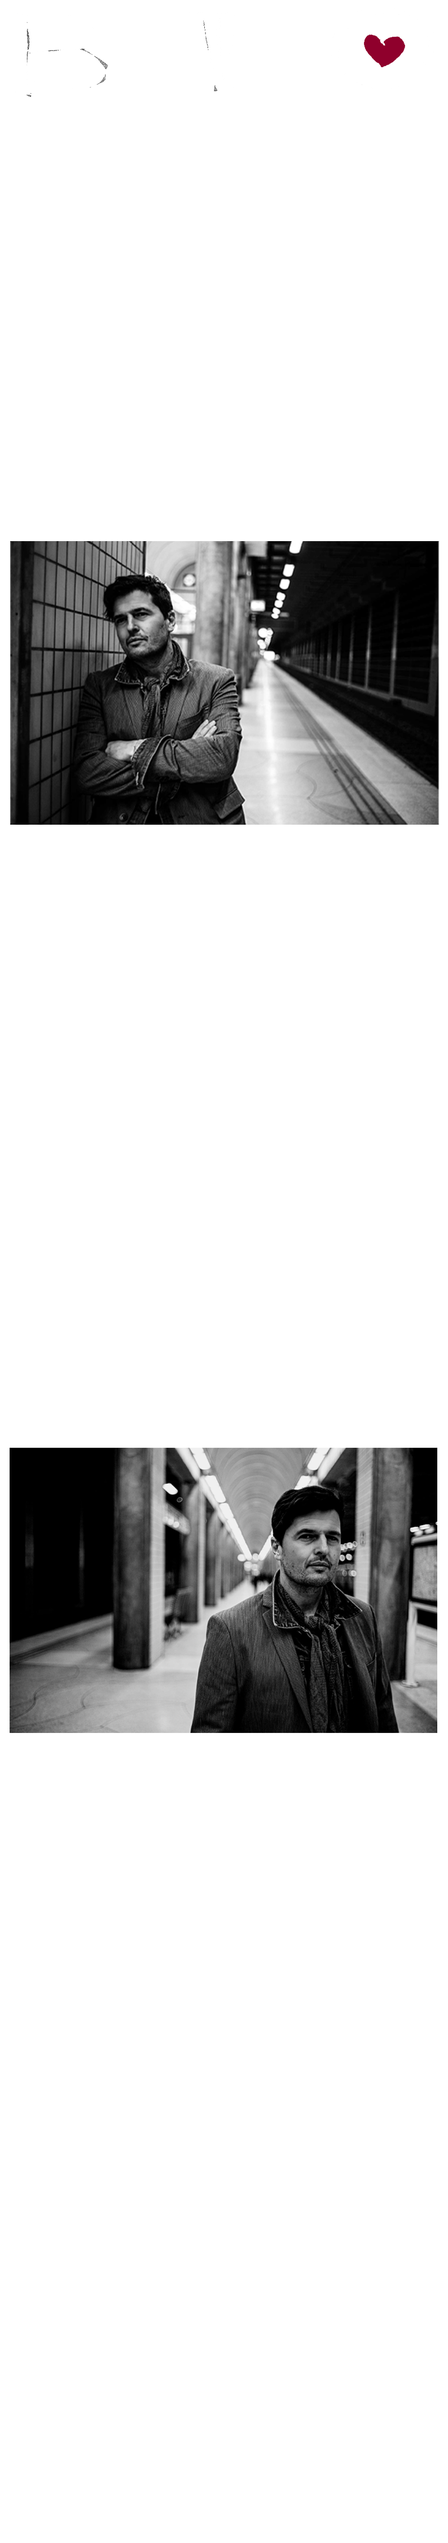
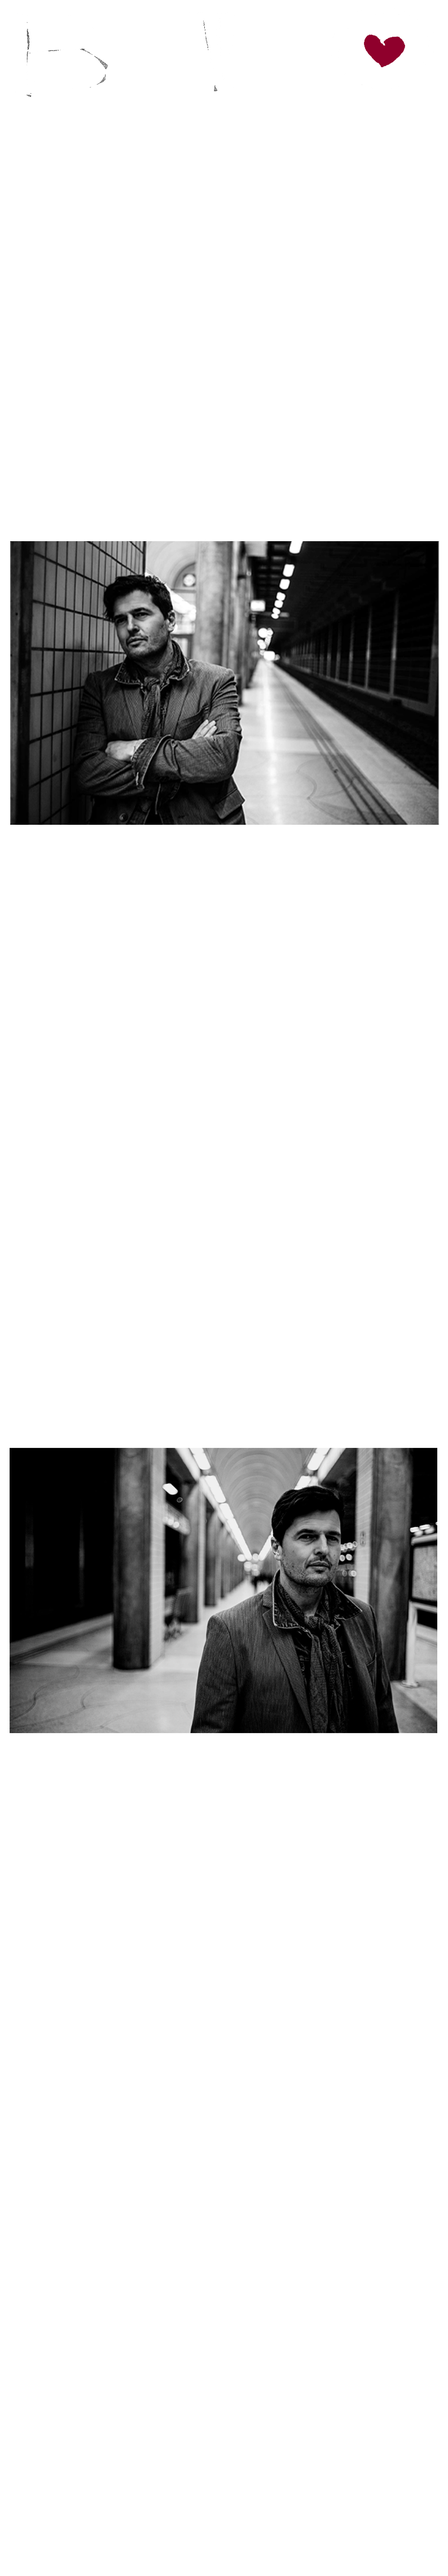
Add files via upload

Changed region(s): [[0.0302, 0.1866, 0.9673, 0.3421], [0.0, 0.5598, 0.9975, 0.6841]]

diff --git a/about_me.html b/about_me.html
@@ -113,7 +113,7 @@ body {
         <tr>
           <td><blockquote>
             <div align="center">
-              <p><img src="bio2023-eng.png" width="644" height="1228" /></p>
+              <p><img src="bio-movil-ingles2023.png" width="794" height="4560" /></p>
               <p>&nbsp;</p>
             </div>
           </blockquote></td>
